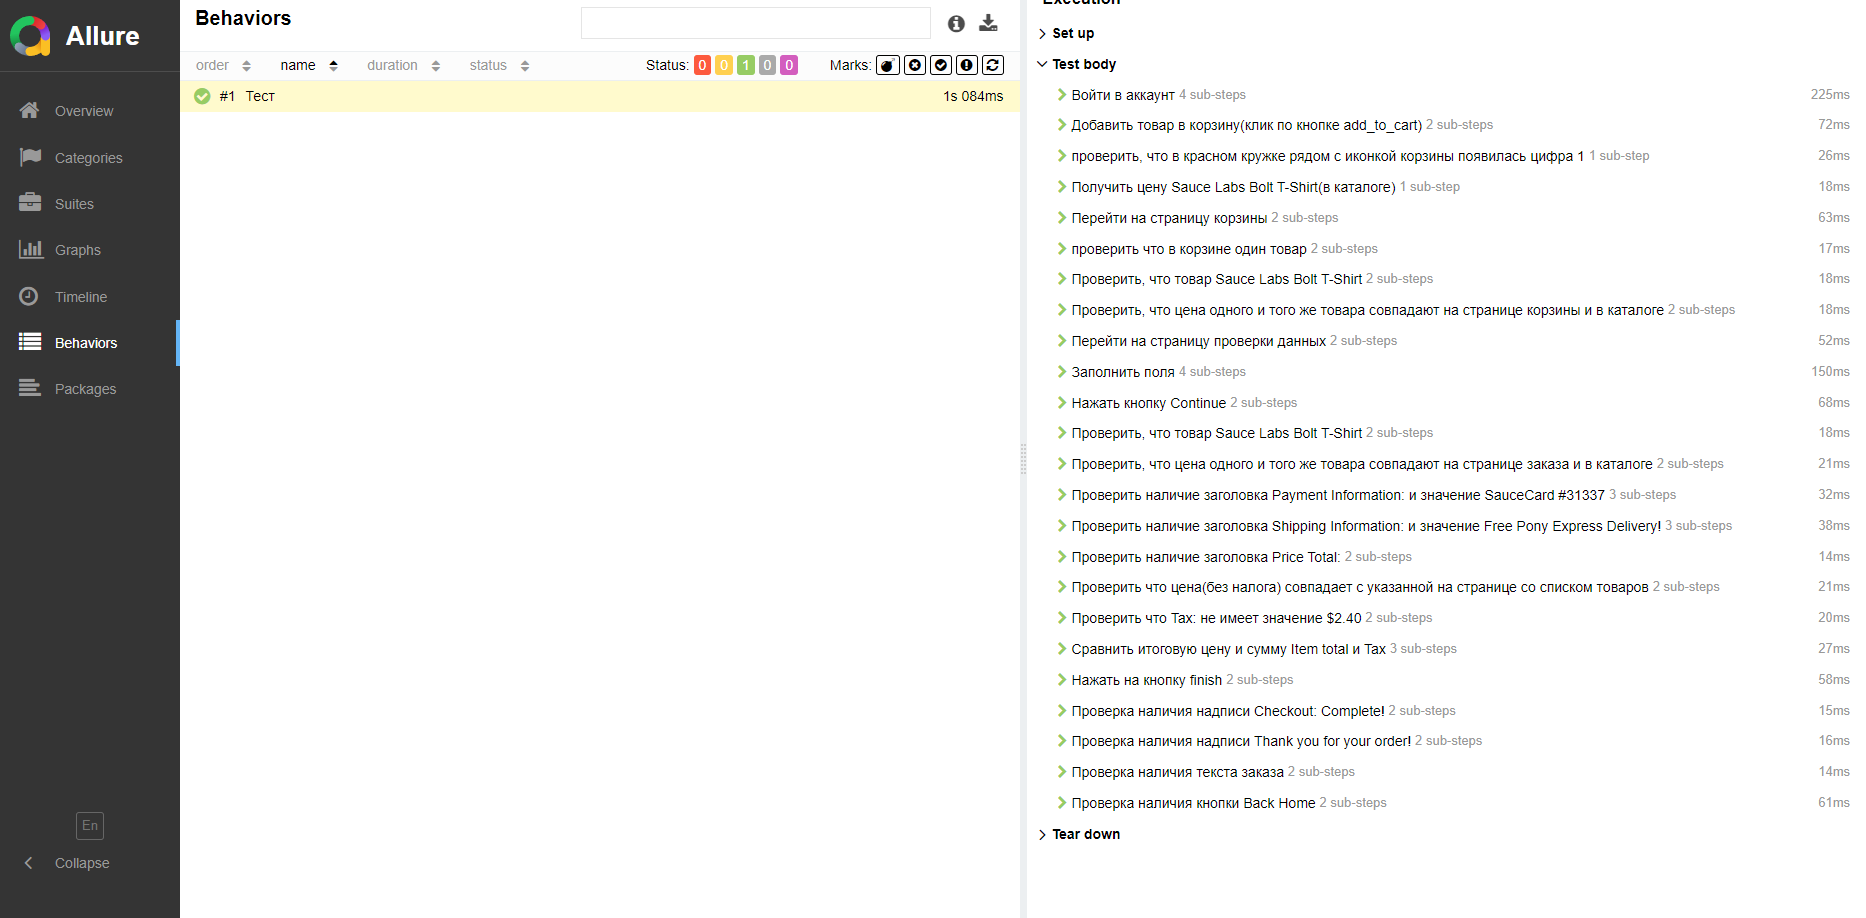
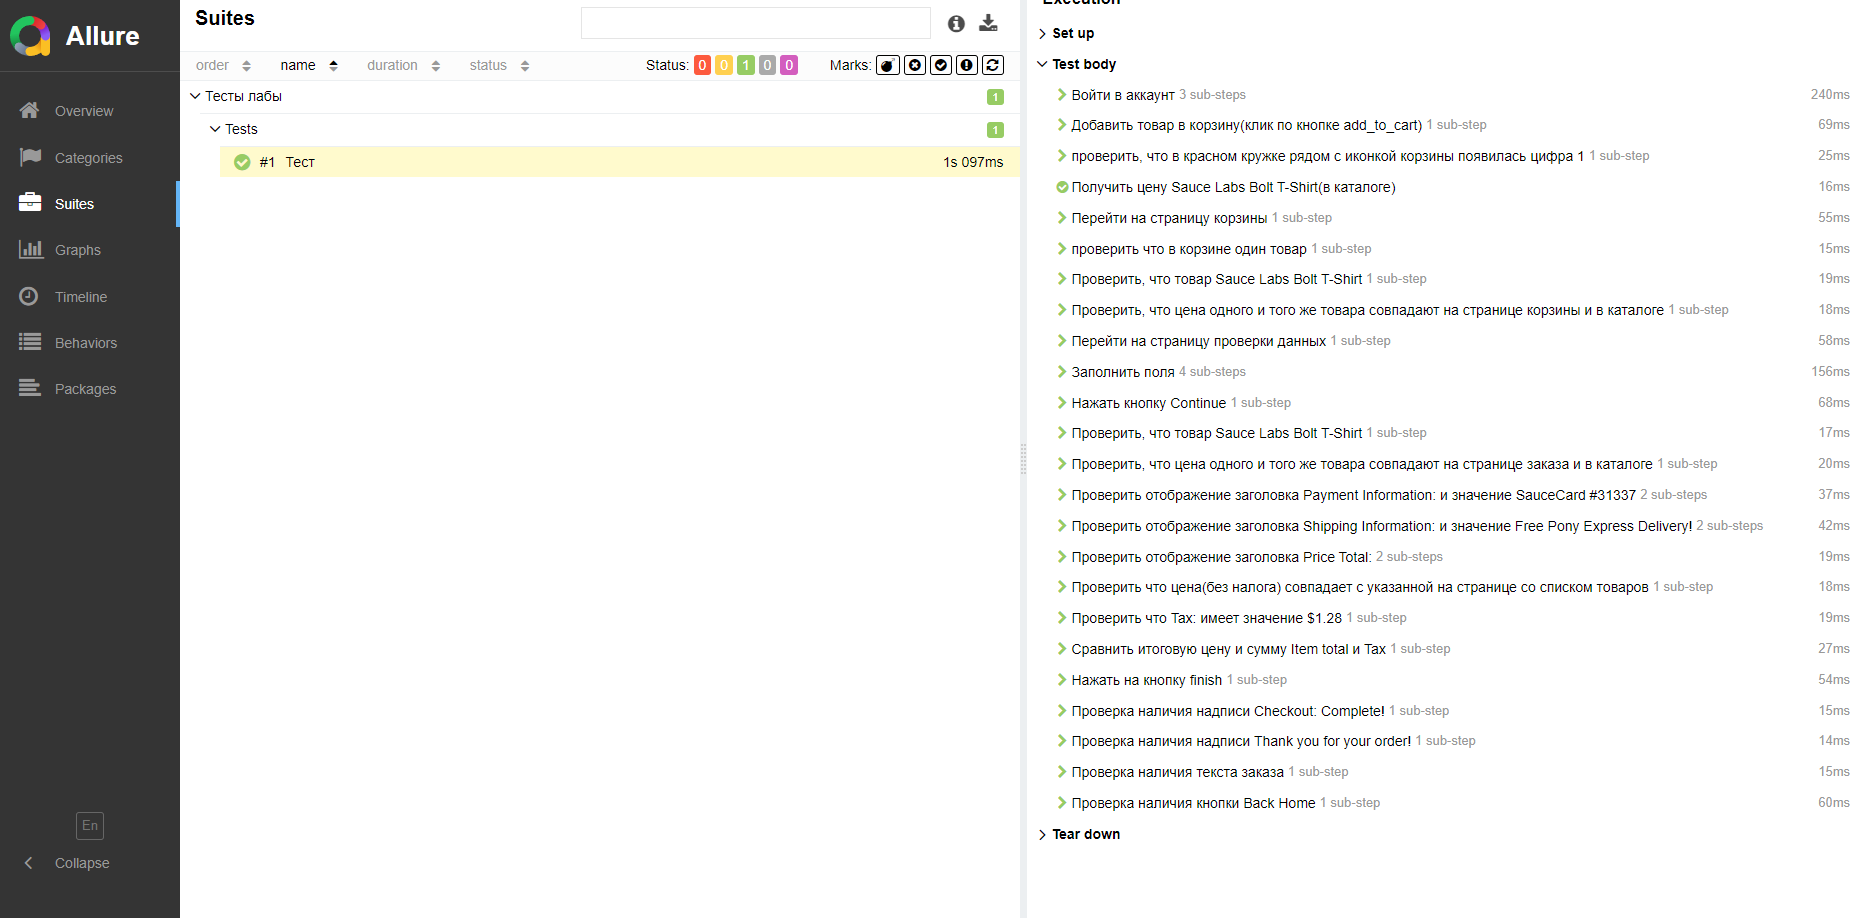
lesson8(update2)

diff --git a/pages/overview_page.py b/pages/overview_page.py
@@ -32,23 +32,21 @@ class OverviewPage(BasePage):
     def get_bolt_tshirt_price(self) -> str:
         return self.get_text(self.item_bolt_tshirt_price)
 
-    @allure.step('Получить цену Sauce Labs Bolt T-Shirt(на странице заказа)')
-    def get_bolt_tshirt_price(self) -> str:
-        return self.get_text(self.item_bolt_tshirt_price)
-
-    @allure.step('Проверка наличия заголовка payment information и получить значение')
+    @allure.step('Проверка отображения заголовка payment information и получить значение')
     def find_and_get_payment_information(self) -> str:
-        assert self.find_element(*self.payment_info_label), ('[FAILED]:заголовок payment information отстуствует')
+        self.elem_is_display(self.payment_info_label)
+
         return self.get_text(self.payment_info_value)
 
-    @allure.step('Проверка наличия заголовка Shipping Information и получить значение')
+    @allure.step('Проверка отображения заголовка Shipping Information и получить значение')
     def find_and_get_shipping_info(self) -> str:
-        assert self.find_element(*self.shipping_info_label), ('[FAILED]:заголовок shipping info отстуствует')
+        self.elem_is_display(self.shipping_info_label)
+
         return self.get_text(self.shipping_info_value)
 
-    @allure.step('Проверка наличия заголовка Shipping Information')
+    @allure.step('Проверка отображения заголовка Shipping Information')
     def find_total_info_label(self) -> None:
-        assert self.find_element(*self.total_info_label), ('[FAILED]:заголовок Price Total: отстуствует')
+        self.elem_is_display(self.total_info_label)
 
     @allure.step('Получить цену товара без учета налогов(item_total)')
     def find_subtotal_value(self) -> str:
@@ -60,7 +58,7 @@ class OverviewPage(BasePage):
 
     @allure.step('Конечная цена с учетом налогов')
     def total_price(self) -> float:
-        t = float(self.find_element(*self.subtotal_label).text[-5:]) + float(self.find_element(*self.tax).text[-4:])
+        t = float(self.get_text(self.subtotal_label)[-5:]) + float(self.get_text(self.tax)[-4:])
         return t
 
     @allure.step('Клик по кнопке finish')

diff --git a/test_run.py b/test_run.py
@@ -56,15 +56,15 @@ class Tests:
             assert catalog_price == overview_page.get_bolt_tshirt_price(), (
                 '[FAILED]:на странице заказа и в каталоге разные цены')
 
-        with allure.step('Проверить наличие заголовка Payment Information: и значение SauceCard #31337'):
+        with allure.step('Проверить отображение заголовка Payment Information: и значение SauceCard #31337'):
             assert overview_page.find_and_get_payment_information() == 'SauceCard #31337', (
                 '[FAILED]:у Payment Information другое значение')
 
-        with allure.step('Проверить наличие заголовка Shipping Information: и значение Free Pony Express Delivery!'):
+        with allure.step('Проверить отображение заголовка Shipping Information: и значение Free Pony Express Delivery!'):
             assert overview_page.find_and_get_shipping_info() == 'Free Pony Express Delivery!', (
                 '[FAILED]:у Shipping Information другое значение')
 
-        with allure.step('Проверить наличие заголовка Price Total:'):
+        with allure.step('Проверить отображение заголовка Price Total:'):
             overview_page.find_total_info_label()
 
         with allure.step('Проверить что цена(без налога) совпадает с указанной на странице со списком товаров'):

diff --git a/pages/inventory_page.py b/pages/inventory_page.py
@@ -20,18 +20,15 @@ class InventoryPage(BasePage):
 
     @allure.step('клик по кнопке Add to Cart для Sauce Labs Bolt T-Shirt')
     def add_tshirt_to_cart_btn_click(self) -> None:
-        self.find_element(*self.add_bolt_tshirt_to_cart_btn).click()
+        self.click(self.add_bolt_tshirt_to_cart_btn)
 
     @allure.step('Получить значение иконки рядом с корзиной(к-во товаров)')
-    def add_tshirt_to_cart_btn_click(self) -> None:
-        self.find_element(*self.add_bolt_tshirt_to_cart_btn).click()
-
     def number_in_red_circle(self) -> str:
         return self.get_text(self.shopping_cart_badge)
 
     @allure.step('клик по иконке корзины')
     def cart_btn_click(self) -> None:
-        self.find_element(*self.cart_btn).click()
+        self.click(self.cart_btn)
 
     @allure.step('Получить цену Sauce Labs Bolt T-Shirt(в каталоге)')
     def get_bolt_tshirt_price_catalog(self) -> str:

diff --git a/pages/base_page.py b/pages/base_page.py
@@ -34,3 +34,7 @@ class BasePage:
     @allure.step('Ввод данных')
     def input(self, element: tuple, input_data: str) -> None:
         self.find_element(*element).send_keys(input_data)
+
+    @allure.step('Проверка отображения элемента')
+    def elem_is_display(self, element: tuple) -> None:
+        assert self.find_element(*element).is_displayed(), ('[FAILED]:элемент не отображается')
